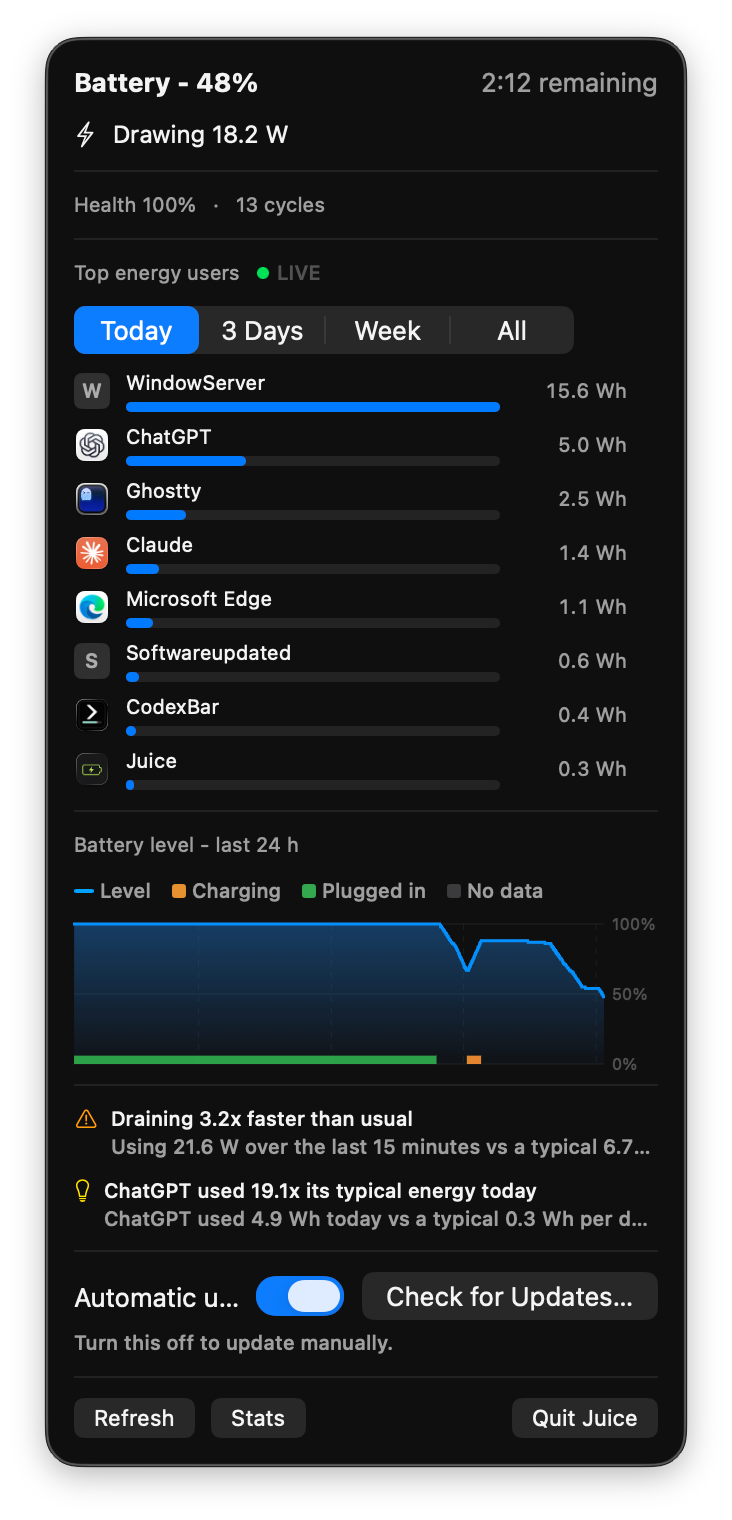
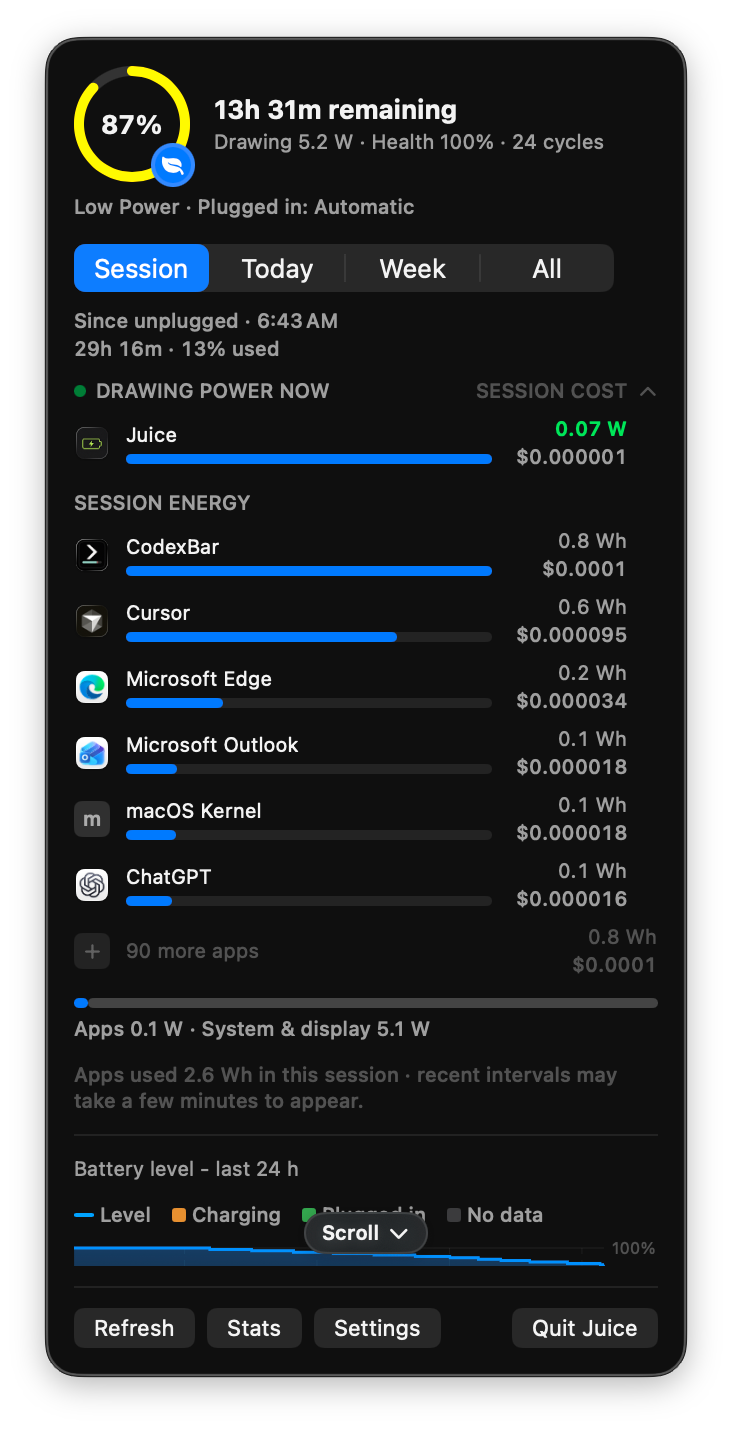
Refresh README product screenshots (#32)
* Refresh README product screenshots

* Make README screenshots easier to inspect

Changed region(s): [[0.0601, 0.0, 0.9317, 0.9846], [0.6913, 0.0923, 0.8115, 0.1231]]

diff --git a/README.md b/README.md
@@ -9,7 +9,7 @@ compute power draw of a Mac mini.
 ![Tests](https://img.shields.io/badge/tests-64%20passing-brightgreen)
 
 <p align="center">
-  <img src="docs/images/popover.png" width="320" alt="Juice popover showing battery status, top energy users with per-app watt-hours, a charge timeline, and insights">
+  <img src="docs/images/popover.png" width="320" alt="Juice popover showing battery life, live power draw, session energy by app, and battery history">
 </p>
 
 <p align="center"><em>Live battery status, per-app energy rankings, charge history, and plain-English insights - one click away in the menu bar.</em></p>
@@ -37,11 +37,11 @@ Juice surfaces that data: which apps used how many watt-hours today, over the la
 - **Private by default**: no telemetry, system profile, or accounts. Juice only contacts its release feed when you ask it to check for updates or enable automatic updates.
 
 <p align="center">
-  <img src="docs/images/app-detail.png" width="460" alt="Per-app detail window showing Slack energy breakdown across CPU and GPU, an hourly bar chart, explanation bullets, and contributing processes">
+  <a href="docs/images/settings-about.png"><img src="docs/images/settings-about.png" width="840" alt="Juice Settings About page showing version, privacy, compatibility, and a GitHub source-code link"></a>
 </p>
 
 <p align="center">
-  <img src="docs/images/stats.png" width="700" alt="Stats window showing the full app energy table and a 7-day charge chart with a recording-since annotation">
+  <a href="docs/images/stats.png"><img src="docs/images/stats.png" width="960" alt="Juice Stats window showing live app power, session energy, and seven-day battery history"></a>
 </p>
 
 ## Architecture
